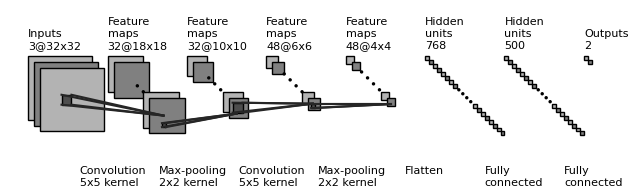
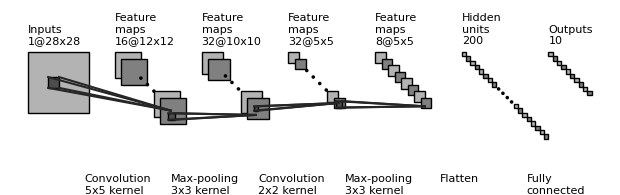
fix for model vis py script

diff --git a/inner_scripts/model_desc.py b/inner_scripts/model_desc.py
@@ -79,12 +79,45 @@ for layer in model.layers:
 with open("layer_vis_info.json","w+") as f:
     f.write(json.dumps(layer_vis_data))
 
+
+# extract info for model vis
+conv_sizes=[]
+conv_channels=[]
+kernel_sizes=[]
+dense_sizes=[]
+model.summary()
+
+for layer in model.layers:
+    if layer.__class__.__name__ == "InputLayer":
+        conv_sizes.append(layer.output_shape[0][1:-1])
+        conv_channels.append(layer.output_shape[0][-1])
+    elif layer.__class__.__name__ == "Conv2D":
+        conv_sizes.append(layer.output_shape[1:-1])
+        conv_channels.append(layer.output_shape[-1])
+        kernel_sizes.append(layer.kernel_size)
+
+        print("layer name={}, output shape={}, channel size={}, kernel_size={}".format(layer.__class__.__name__,\
+                layer.output_shape[1:-1],layer.output_shape[-1],layer.kernel_size))
+    elif layer.__class__.__name__ == "AveragePooling2D":
+        conv_sizes.append(layer.output_shape[1:-1])
+        conv_channels.append(layer.output_shape[-1])
+        kernel_sizes.append(layer.pool_size)
+
+        print("layer name={}, output shape={}, channel size={}, pool_size={}".format(layer.__class__.__name__,\
+                layer.output_shape[1:-1],layer.output_shape[-1],layer.pool_size))
+    elif layer.__class__.__name__ == "Flatten":
+        dense_sizes.append(layer.output_shape[-1])
+    elif layer.__class__.__name__ == "Dense":
+        dense_sizes.append(layer.output_shape[-1])
+
+        print("layer size={}".format(layer.output_shape[-1]))
 # draw model graph
+print("convsize list={}, conv num list={}, kernel size list={}, dense size list={}".format(conv_sizes, conv_channels, kernel_sizes, dense_sizes))
 import draw_convnet
-draw_convnet.run_draw(conv_size_list=[(32, 32), (18, 18), (10, 10), (6, 6), (4, 4)],
-                    conv_num_list=[3, 32, 32, 48, 48],
-                    kernel_size_list=[(5, 5), (2, 2), (5, 5), (2, 2)],
-                    dense_size_list=[768, 500, 2],
+draw_convnet.run_draw(conv_size_list=conv_sizes,
+                    conv_num_list=conv_channels,
+                    kernel_size_list=kernel_sizes,
+                    dense_size_list=dense_sizes,
                     save_fig_path=os.path.join(base_path, "ann_model_vis.png"))
 
 model_vis_img_info = {"model_vis_img_path":os.path.join(base_path, "ann_model_vis.png")}

diff --git a/inner_scripts/draw_convnet.py b/inner_scripts/draw_convnet.py
@@ -202,7 +202,7 @@ def run_draw(conv_size_list, conv_num_list, kernel_size_list, dense_size_list,sa
 
     ############################
     # fully connected layers
-    size_list = [(fc_unit_size, fc_unit_size)] * 3
+    size_list = [(fc_unit_size, fc_unit_size)] * len(dense_size_list)
     # num_list = [768, 500, 2]
     num_list = dense_size_list
     num_show_list = list(map(min, num_list, [NumFcMax] * len(num_list)))
